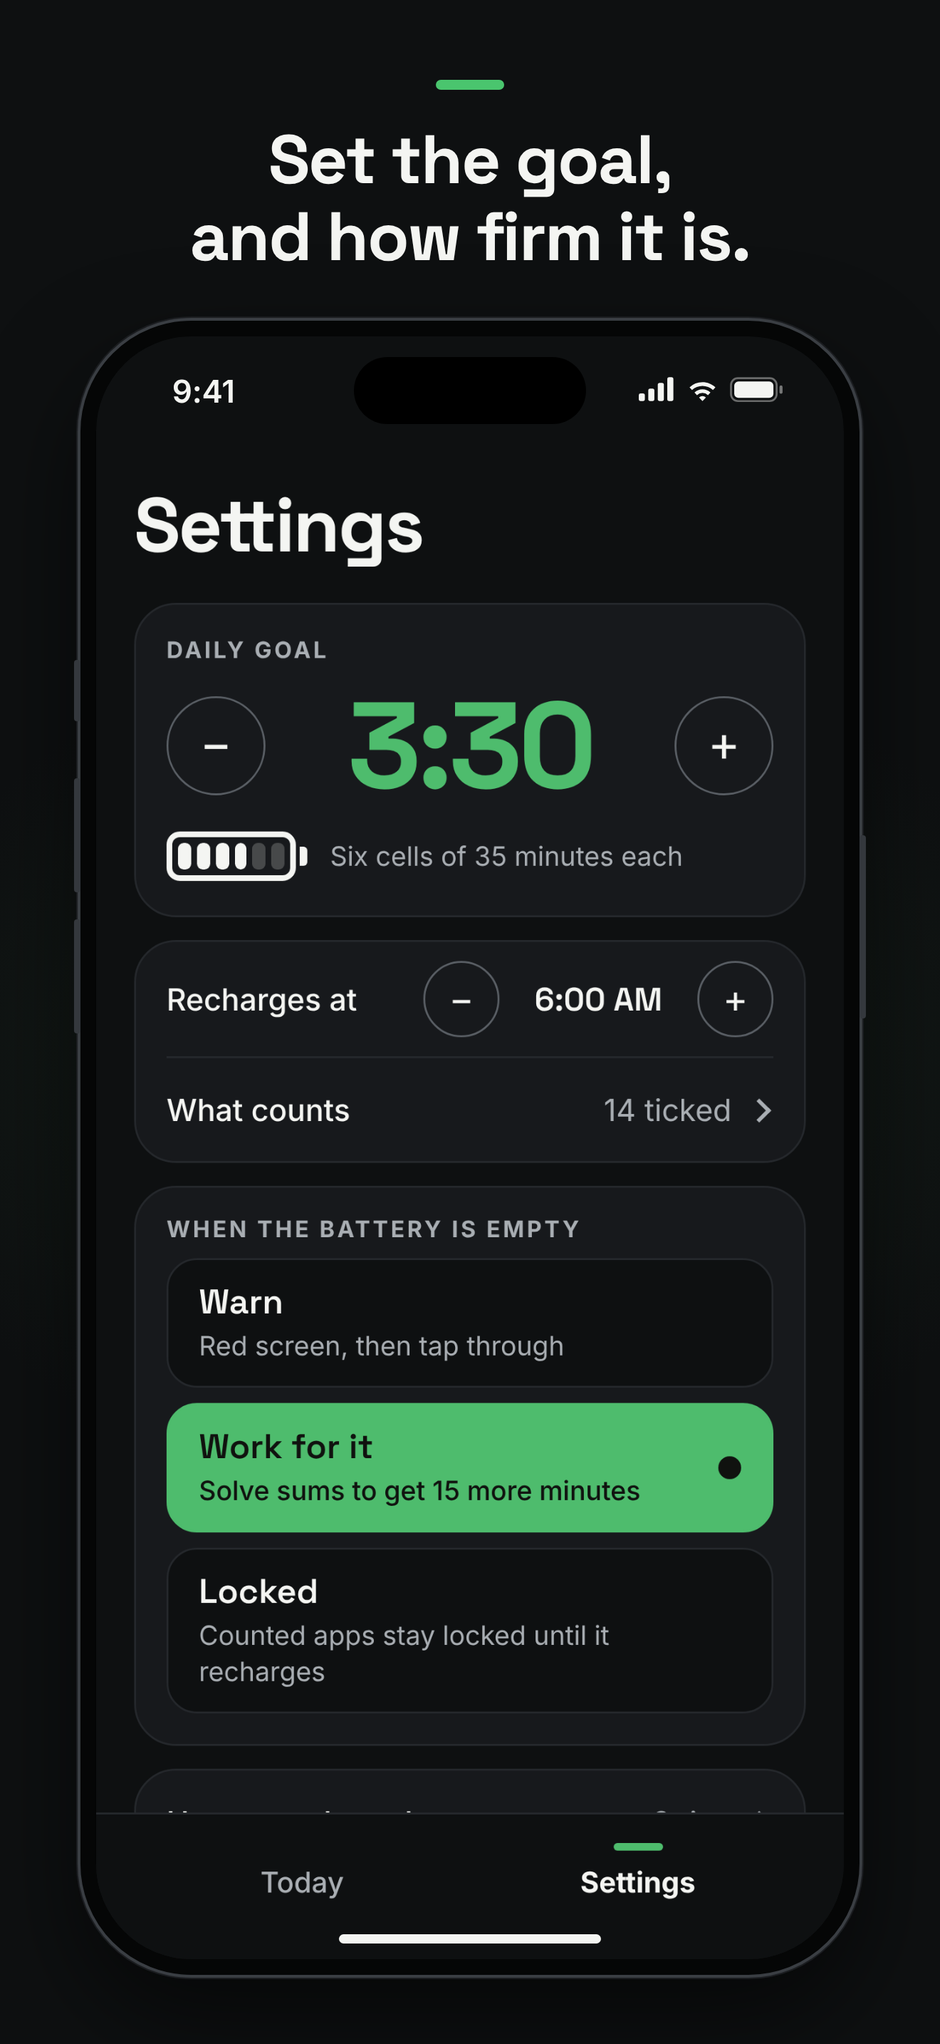
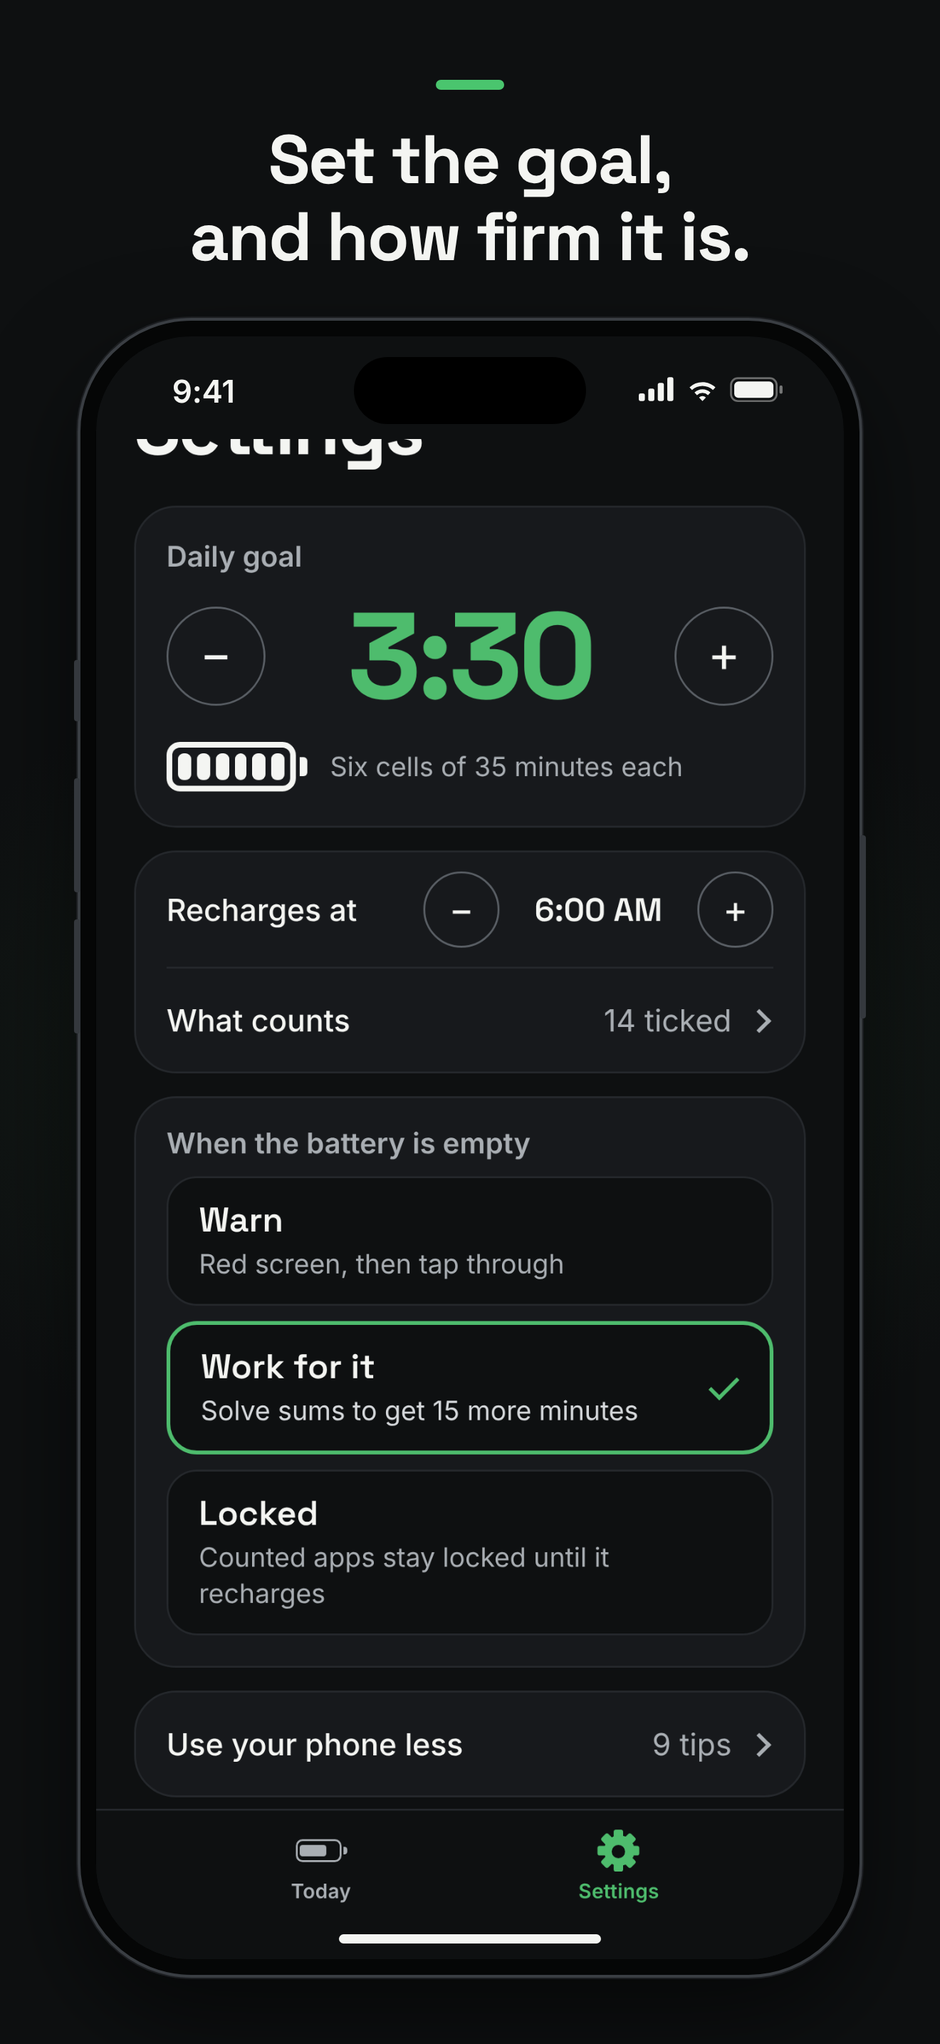
plainlimit 1.0.1 look: battery reads the right way, clearer colours
- A used cell is an outlined empty slot; only charge is solid (app and
  widget). The bar under "Used today" lights what is left.
- Two cells left is a clear yellow; Last 7 days is green (under the goal)
  or light red (ran out), with closeness shown by height.
- Settings: six-cell allowance battery, outlined choice with a checkmark,
  sentence-case labels. Quieter countdown, clearer sums note.
- The phone's "Used today" figure keeps to the top of its box, so a late
  layout can't draw it half below the edge (seen on the owner's phone).
- Store screenshots for 1.0.1: iPhone-style tab bar in the web build,
  empty shot leads on to the sums, nothing cut by the tab bar.
- queue.json: Plainlimit is in App Review (site label added).

Claude-Session: https://claude.ai/code/session_01P4SSbMQUsnKyhcfhzrtFQp

diff --git a/apps/plainlimit/src/ui/AppTabs.web.tsx b/apps/plainlimit/src/ui/AppTabs.web.tsx
@@ -4,13 +4,46 @@ import { Pressable, StyleSheet, Text, View, type PressableProps } from 'react-na
 import { c } from './theme';
 import { useDay } from './useDay';
 
-// The web preview's tab bar, drawn to sit where the iPhone's would.
+// The web preview's tab bar, drawn to match the iPhone's (AppTabs.tsx): an
+// icon over a small label for each tab, tinted in the battery's colour when
+// open. The icons stand in for the SF Symbols the phone draws (battery.75percent
+// and gearshape), which the web has no copy of.
 
-function TabButton({ label, accent, isFocused, ...props }: TabTriggerSlotProps & { label: string; accent: string }) {
+function BatteryIcon({ color }: { color: string }) {
+  return (
+    <View style={{ flexDirection: 'row', alignItems: 'center', gap: 1.5, height: 24 }}>
+      <View style={{ width: 24, height: 12, borderRadius: 3.5, borderWidth: 1.6, borderColor: color, padding: 1.6 }}>
+        <View style={{ width: '75%', height: '100%', borderRadius: 1.5, backgroundColor: color }} />
+      </View>
+      <View style={{ width: 2, height: 4.5, borderTopRightRadius: 1.5, borderBottomRightRadius: 1.5, backgroundColor: color }} />
+    </View>
+  );
+}
+
+function GearIcon({ color }: { color: string }) {
+  const size = 22;
+  return (
+    <View style={{ width: size, height: 24, alignItems: 'center', justifyContent: 'center' }}>
+      <View style={{ width: size, height: size }}>
+        {Array.from({ length: 8 }, (_, i) => (
+          <View key={i} style={{ position: 'absolute', left: size / 2 - 2.5, top: 0, width: 5, height: size, transform: [{ rotate: `${i * 45}deg` }] }}>
+            <View style={{ width: 5, height: 6, borderRadius: 1.2, backgroundColor: color }} />
+          </View>
+        ))}
+        <View style={{ position: 'absolute', left: 3, top: 3, width: size - 6, height: size - 6, borderRadius: size, backgroundColor: color, alignItems: 'center', justifyContent: 'center' }}>
+          <View style={{ width: 7, height: 7, borderRadius: 7, backgroundColor: c.ground }} />
+        </View>
+      </View>
+    </View>
+  );
+}
+
+function TabButton({ label, icon, accent, isFocused, ...props }: TabTriggerSlotProps & { label: string; icon: 'battery' | 'gear'; accent: string }) {
+  const color = isFocused ? accent : c.ink3;
   return (
     <Pressable {...(props as PressableProps)} accessibilityRole="tab" accessibilityState={{ selected: !!isFocused }} style={styles.button}>
-      <View style={{ width: 26, height: 4, borderRadius: 2, backgroundColor: isFocused ? accent : 'transparent' }} />
-      <Text style={{ fontSize: 15, fontWeight: isFocused ? '700' : '500', color: isFocused ? c.ink : c.ink3 }}>{label}</Text>
+      {icon === 'battery' ? <BatteryIcon color={color} /> : <GearIcon color={color} />}
+      <Text style={{ fontSize: 10.5, fontWeight: '600', letterSpacing: 0.1, color }}>{label}</Text>
     </Pressable>
   );
 }
@@ -25,10 +58,10 @@ export default function AppTabs() {
         {/* One flat style object: the router's slot can't merge an array of styles. */}
         <View style={StyleSheet.flatten(styles.bar)}>
           <TabTrigger name="index" href="/" asChild>
-            <TabButton label="Today" accent={accent} />
+            <TabButton label="Today" icon="battery" accent={accent} />
           </TabTrigger>
           <TabTrigger name="settings" href="/settings" asChild>
-            <TabButton label="Settings" accent={accent} />
+            <TabButton label="Settings" icon="gear" accent={accent} />
           </TabTrigger>
         </View>
       </TabList>
@@ -37,6 +70,6 @@ export default function AppTabs() {
 }
 
 const styles = StyleSheet.create({
-  bar: { flexDirection: 'row', borderTopWidth: 1, borderTopColor: c.rule, backgroundColor: c.ground, paddingTop: 6, paddingBottom: 22, paddingHorizontal: 20 },
-  button: { flex: 1, height: 48, alignItems: 'center', justifyContent: 'center', gap: 7 },
+  bar: { flexDirection: 'row', borderTopWidth: StyleSheet.hairlineWidth, borderTopColor: c.rule, backgroundColor: c.ground, paddingTop: 6, paddingBottom: 26, paddingHorizontal: 40 },
+  button: { flex: 1, height: 46, alignItems: 'center', justifyContent: 'center', gap: 3 },
 });

diff --git a/apps/plainlimit/src/ui/kit.tsx b/apps/plainlimit/src/ui/kit.tsx
@@ -148,18 +148,19 @@ export function Choice({
         tap();
         onPress();
       }}
-      style={({ pressed }) => [styles.choice, chosen ? { backgroundColor: accent, borderColor: accent } : null, disabled ? { opacity: 0.6 } : null, pressed ? { opacity: 0.8 } : null]}>
+      style={({ pressed }) => [styles.choice, chosen ? { borderColor: accent, borderWidth: 2 } : null, disabled ? { opacity: 0.6 } : null, pressed ? { opacity: 0.8 } : null]}>
       <View style={{ flex: 1, gap: 3 }}>
-        <Text style={{ fontFamily: display.semi, fontSize: 18, lineHeight: 22, color: chosen ? c.onTone : c.ink }}>{title}</Text>
-        {line ? <Text style={{ fontSize: 14, lineHeight: 19, fontWeight: chosen ? '500' : '400', color: chosen ? c.onTone : c.ink3 }}>{line}</Text> : null}
+        <Text style={{ fontFamily: display.semi, fontSize: 18, lineHeight: 22, color: c.ink }}>{title}</Text>
+        {line ? <Text style={{ fontSize: 14, lineHeight: 19, color: chosen ? c.ink2 : c.ink3 }}>{line}</Text> : null}
         {rows?.map(([label, says]) => (
           <View key={label} style={{ marginTop: 6 }}>
-            <Text style={{ fontSize: 12, fontWeight: '700', letterSpacing: 0.8, textTransform: 'uppercase', color: chosen ? c.onTone : c.ink3, opacity: chosen ? 0.75 : 1 }}>{label}</Text>
-            <Text style={{ fontSize: 15, lineHeight: 20, fontWeight: chosen ? '500' : '400', color: chosen ? c.onTone : c.ink2 }}>{says}</Text>
+            <Text style={{ fontSize: 13, fontWeight: '600', color: c.ink3 }}>{label}</Text>
+            <Text style={{ fontSize: 15, lineHeight: 20, color: c.ink2 }}>{says}</Text>
           </View>
         ))}
       </View>
-      {chosen ? <View style={styles.dot} /> : null}
+      {/* The chosen row: an outline in the day's colour and a checkmark, like a settings list. */}
+      {chosen ? <View style={[styles.check, { borderColor: accent }]} /> : null}
       {tag ? (
         <View style={styles.tag}>
           <Text style={styles.tagText}>{tag}</Text>
@@ -172,7 +173,7 @@ export function Choice({
 const styles = StyleSheet.create({
   title: { fontFamily: display.bold, fontSize: 40, lineHeight: 44, letterSpacing: -1, color: c.ink, marginBottom: 6 },
   lead: { fontSize: 16, lineHeight: 22, color: c.ink2, marginBottom: 6 },
-  label: { fontSize: 12, fontWeight: '700', letterSpacing: 1.4, textTransform: 'uppercase', color: c.ink3 },
+  label: { fontSize: 15, fontWeight: '600', color: c.ink3 },
   card: { borderRadius: 22, backgroundColor: c.card, borderWidth: 1, borderColor: c.rule, paddingHorizontal: 16 },
   big: { minHeight: 58, borderRadius: 29, backgroundColor: c.paper, alignItems: 'center', justifyContent: 'center', paddingHorizontal: 18 },
   bigQuiet: { backgroundColor: 'transparent', borderWidth: 1.5, borderColor: c.outline },
@@ -182,7 +183,7 @@ const styles = StyleSheet.create({
   rowLabel: { fontSize: 16, fontWeight: '500', color: c.ink },
   rowValue: { fontSize: 16, color: c.ink3, flexShrink: 1 },
   choice: { minHeight: 62, borderRadius: 16, borderWidth: 1.5, borderColor: c.rule, backgroundColor: c.ground, paddingVertical: 11, paddingHorizontal: 16, flexDirection: 'row', alignItems: 'center', gap: 12 },
-  dot: { width: 12, height: 12, borderRadius: 6, backgroundColor: c.onTone },
+  check: { width: 8, height: 15, borderRightWidth: 2.5, borderBottomWidth: 2.5, transform: [{ rotate: '45deg' }], marginRight: 4, marginTop: -4 },
   tag: { borderWidth: 1, borderColor: c.ink3, borderRadius: 8, paddingVertical: 3, paddingHorizontal: 8 },
   tagText: { fontSize: 12, fontWeight: '600', color: c.ink2 },
 });

diff --git a/apps/plainlimit/src/ui/Ruler.tsx b/apps/plainlimit/src/ui/Ruler.tsx
@@ -4,21 +4,22 @@ import { CELLS } from '@/domain/battery';
 
 import { c } from './theme';
 
-// The day laid out flat: six stretches, one under each cell of the battery,
-// lit as that cell is used up. The battery empties from the right, so this
-// fills from the right too and the two move the same way; a lit stretch sits
-// under the cell that went. (It used to fill from the left, against the
-// battery, which the owner found contradictory.)
+// The day laid out flat: six stretches, one under each cell of the battery.
+// Like the battery, what is lit is what is left: the charge drains from the
+// right, so a stretch goes dark under the cell that went, and the two move
+// the same way. (It once filled from the left, against the battery, which the
+// owner found contradictory; then it lit what was used, which read as "one
+// cell left" next to a battery whose used cells are empty slots.)
 
 export function Ruler({ fraction, color }: { fraction: number; color: string }) {
-  const used = Math.max(0, Math.min(1, fraction)) * CELLS;
+  const left = (1 - Math.max(0, Math.min(1, fraction))) * CELLS;
   return (
-    <View accessible accessibilityRole="progressbar" accessibilityLabel={`${Math.round(Math.min(1, Math.max(0, fraction)) * 100)} percent of the goal used`} style={{ flexDirection: 'row-reverse', gap: 4 }}>
+    <View accessible accessibilityRole="progressbar" accessibilityLabel={`${Math.round(Math.min(1, Math.max(0, fraction)) * 100)} percent of the goal used`} style={{ flexDirection: 'row', gap: 4 }}>
       {Array.from({ length: CELLS }, (_, i) => {
-        const part = Math.max(0, Math.min(1, used - i));
+        const part = Math.max(0, Math.min(1, left - i));
         return (
           <View key={i} style={{ flex: 1, height: 8, borderRadius: 4, backgroundColor: c.raised, overflow: 'hidden' }}>
-            <View style={{ width: `${part * 100}%`, height: 8, borderRadius: 4, backgroundColor: color, alignSelf: 'flex-end' }} />
+            <View style={{ width: `${part * 100}%`, height: 8, borderRadius: 4, backgroundColor: color }} />
           </View>
         );
       })}

diff --git a/apps/plainlimit/src/ui/Battery.tsx b/apps/plainlimit/src/ui/Battery.tsx
@@ -11,7 +11,7 @@ import { usePulse, useReducedMotion } from './motion';
 //
 // It is drawn flat, like a sticker: a hard shadow under the casing, and a
 // short glint on each lit cell. A cell fades and shrinks away when it is
-// used up, and the last one left breathes slowly.
+// used up, leaving an outlined empty slot, and the last one left breathes slowly.
 
 export function Battery({
   cells,
@@ -46,6 +46,7 @@ export function Battery({
   const inset = Math.max(3, Math.round(height * 0.085));
   const radius = Math.round(height * 0.27);
   const cellRadius = Math.max(2, Math.round(height * 0.12));
+  const slotLine = Math.max(1.5, Math.round(height * 0.035 * 2) / 2);
   const drop = flat ? 0 : Math.max(3, Math.round(height * 0.085));
   const capWidth = Math.max(4, Math.round(height * 0.11));
   const capGap = Math.max(2, Math.round(height * 0.06));
@@ -64,7 +65,10 @@ export function Battery({
         {drop > 0 ? <View style={{ position: 'absolute', left: 0, right: 0, top: drop, height, borderRadius: radius, backgroundColor: tone.track }} /> : null}
         <Animated.View style={{ height, borderWidth: border, borderColor: tone.fg, borderRadius: radius, backgroundColor: fill ?? tone.bg, padding: inset, flexDirection: 'row', gap: inset }}>
           {levels.map((level, i) => (
-            <View key={i} style={{ flex: 1, borderRadius: cellRadius, backgroundColor: tone.track, overflow: 'hidden' }}>
+            // A used cell is an empty slot (the ground shows through, outlined), like
+            // the phone's own battery icon: only charge is solid.
+            <View key={i} style={{ flex: 1 }}>
+              <View style={{ position: 'absolute', top: 0, left: 0, right: 0, bottom: 0, borderRadius: cellRadius, borderWidth: slotLine, borderColor: tone.track }} />
               <Animated.View
                 style={{
                   flex: 1,

diff --git a/apps/plainlimit/src/ui/WeekView.tsx b/apps/plainlimit/src/ui/WeekView.tsx
@@ -1,15 +1,15 @@
 import { StyleSheet, Text, View } from 'react-native';
 
-import { cellsLeft } from '@/domain/battery';
+import { CELLS } from '@/domain/battery';
 import { durationLabel } from '@/domain/day';
-import { toneForCells } from '@/domain/tone';
+import { accentOnDark, toneForCells } from '@/domain/tone';
 import { earnedLine, weekLine, type Week, type WeekColumn } from '@/domain/week';
 
 import { Label } from './kit';
 import { c } from './theme';
 
-// The last seven batteries side by side, each filled as far as it was used, in
-// the colour the battery had reached. A full bar is a day that ran out.
+// The last seven batteries side by side, each filled as far as it was used:
+// green if the day stayed under the goal, red if it ran out (a full bar).
 
 const FULL_NAMES: Record<string, string> = { Sun: 'Sunday', Mon: 'Monday', Tue: 'Tuesday', Wed: 'Wednesday', Thu: 'Thursday', Fri: 'Friday', Sat: 'Saturday' };
 
@@ -25,7 +25,10 @@ function spoken(col: WeekColumn): string {
 function Column({ col }: { col: WeekColumn }) {
   const shown = col.state !== 'unknown' && col.state !== 'off';
   const fill = Math.max(0, Math.min(1, col.usedMinutes / col.goalMinutes));
-  const colour = toneForCells(cellsLeft(col.usedMinutes, col.goalMinutes)).bg;
+  // Two states only: under the goal in the full battery's green, ran out in a
+  // red light enough to read on the dark ground. How close a day came is the
+  // bar's height; colouring that too painted good days in warning colours.
+  const colour = col.usedMinutes >= col.goalMinutes ? accentOnDark(toneForCells(0)) : toneForCells(CELLS).bg;
   return (
     <View accessible accessibilityLabel={spoken(col)} style={styles.column}>
       <View style={styles.track}>

diff --git a/apps/plainlimit/targets/widget/PlainlimitWidget.swift b/apps/plainlimit/targets/widget/PlainlimitWidget.swift
@@ -43,7 +43,7 @@ extension Color {
 }
 
 // TONES-BEGIN (generated from src/domain/tone.ts; index = cells left)
-let toneBackgrounds: [UInt32] = [0xA50008, 0xF79200, 0x9CC349, 0x50B76C, 0x4DBE6D, 0x4AC56E, 0x46CC70]
+let toneBackgrounds: [UInt32] = [0xA50008, 0xF79200, 0xE5CC1C, 0x50B76C, 0x4DBE6D, 0x4AC56E, 0x46CC70]
 // TONES-END
 
 func tone(forCells cells: Int) -> Tone {
@@ -53,7 +53,7 @@ func tone(forCells cells: Int) -> Tone {
       background: Color(hex: toneBackgrounds[0]), ink: .white, track: Color.white.opacity(0.30))
   }
   let ink = Color(hex: 0x10120F)
-  return Tone(background: Color(hex: toneBackgrounds[index]), ink: ink, track: ink.opacity(0.22))
+  return Tone(background: Color(hex: toneBackgrounds[index]), ink: ink, track: ink.opacity(0.32))
 }
 
 func word(forCells cells: Int) -> String {
@@ -213,9 +213,15 @@ struct BatteryShape: View {
       let nub = height * 0.11
       HStack(spacing: height * 0.05) {
         HStack(spacing: height * 0.07) {
+          // A used cell is an outlined empty slot; only charge is solid (Battery.tsx).
           ForEach(0..<cellCount, id: \.self) { index in
-            RoundedRectangle(cornerRadius: height * 0.09, style: .continuous)
-              .fill(index < cells ? ink : track)
+            if index < cells {
+              RoundedRectangle(cornerRadius: height * 0.09, style: .continuous)
+                .fill(ink)
+            } else {
+              RoundedRectangle(cornerRadius: height * 0.09, style: .continuous)
+                .strokeBorder(track, lineWidth: max(1, height * 0.035))
+            }
           }
         }
         .padding(height * 0.15)

diff --git a/apps/plainlimit/src/app/(tabs)/settings.tsx b/apps/plainlimit/src/app/(tabs)/settings.tsx
@@ -1,7 +1,7 @@
 import { useRouter } from 'expo-router';
 import { StyleSheet, Text, View, useWindowDimensions } from 'react-native';
 
-import { cellWords } from '@/domain/battery';
+import { CELLS, cellWords } from '@/domain/battery';
 import { clockLabel, durationLabel } from '@/domain/day';
 import { topUpPlan } from '@/domain/puzzle';
 import { COUNTED_ID, DEV_TOOLS, MOCK_PHONE, SCREEN_TIME_AVAILABLE, isOn, pickCount } from '@/platform/screenTime';
@@ -15,7 +15,7 @@ import { useDay } from '@/ui/useDay';
 
 export default function Settings() {
   const router = useRouter();
-  const { settings, day, cells, accent } = useDay();
+  const { settings, day, accent } = useDay();
   const first = topUpPlan(0);
   const picked = SCREEN_TIME_AVAILABLE || MOCK_PHONE ? pickCount(COUNTED_ID) : -1;
   const countedValue = picked < 0 ? 'Your picks' : picked === 0 ? 'Nothing yet' : `${picked} ticked`;
@@ -43,7 +43,7 @@ export default function Settings() {
         </View>
         <View style={styles.cellRow}>
           <View style={{ width: 74 }}>
-            <Battery cells={cells} tone={{ fg: c.ink, track: 'rgba(244,245,242,0.22)', bg: c.card }} height={26} flat decorative />
+            <Battery cells={CELLS} tone={{ fg: c.ink, track: 'rgba(244,245,242,0.22)', bg: c.card }} height={26} flat decorative />
           </View>
           <Text style={styles.cellNote}>Six cells of {cellWords(settings.goalMinutes)} each</Text>
         </View>

diff --git a/apps/plainlimit/src/domain/tone.ts b/apps/plainlimit/src/domain/tone.ts
@@ -37,7 +37,7 @@ export function oklchToHex(lightness: number, chroma: number, hueDegrees: number
 
 /**
  * The colour for a point in the day, where `t` is the share of the goal used.
- * Green dulls slowly for the first two thirds, turns yellow by five sixths,
+ * Green dulls slowly for the first two thirds, turns yellow by three quarters,
  * orange through the last cell, and deep red from the moment it is empty.
  */
 export function toneAt(t: number): Tone {
@@ -52,7 +52,9 @@ export function toneAt(t: number): Tone {
     light = 76 - 7 * k;
     chroma = 0.18 - 0.04 * k;
   } else if (x <= 0.833) {
-    const k = (x - 0.667) / 0.166;
+    // Green turns to a clear yellow by the middle of the fifth cell, so two
+    // cells left never sits as a lime beside the full battery's green.
+    const k = Math.min(1, ((x - 0.667) / 0.166) * 2);
     hue = 150 - 50 * k;
     light = 69 + 15 * k;
     chroma = 0.14 + 0.03 * k;
@@ -67,7 +69,7 @@ export function toneAt(t: number): Tone {
     light = 72 - 9 * k;
     chroma = 0.18 + 0.02 * k;
   }
-  return { bg: oklchToHex(light / 100, chroma, hue), fg: INK, track: 'rgba(16,18,15,0.22)', dark: false };
+  return { bg: oklchToHex(light / 100, chroma, hue), fg: INK, track: 'rgba(16,18,15,0.32)', dark: false };
 }
 
 /** The colour shown for a number of lit cells: the middle of that cell's stretch of the day. */

diff --git a/apps/plainlimit/targets/report/PlainlimitReport.swift b/apps/plainlimit/targets/report/PlainlimitReport.swift
@@ -205,6 +205,11 @@ struct AverageReport: DeviceActivityReportScene {
 struct TotalView: View {
   let seconds: TimeInterval
 
+  // The figure keeps to the top 52 points, the height of the app's box for it,
+  // whatever size iOS first gives this view. Centred in the whole view, it was
+  // drawn half below the box when iOS laid the view out taller than the box
+  // before the box had its size (the owner's phone, build 75: "2:06" with its
+  // top half cut off, right a moment later).
   var body: some View {
     HStack(spacing: 0) {
       Text(clockWords(seconds))
@@ -216,7 +221,8 @@ struct TotalView: View {
         .minimumScaleFactor(0.6)
       Spacer(minLength: 0)
     }
-    .frame(maxWidth: .infinity, maxHeight: .infinity, alignment: .leading)
+    .frame(height: 52, alignment: .leading)
+    .frame(maxWidth: .infinity, maxHeight: .infinity, alignment: .topLeading)
     .background(ground)
   }
 }

diff --git a/apps/plainlimit/src/app/(tabs)/index.tsx b/apps/plainlimit/src/app/(tabs)/index.tsx
@@ -134,7 +134,7 @@ const styles = StyleSheet.create({
   word: { fontFamily: display.bold, fontSize: 58, lineHeight: 58, letterSpacing: -2.2 },
   rechargeRow: { flexDirection: 'row', flexWrap: 'wrap', alignItems: 'baseline', columnGap: 10, rowGap: 2 },
   recharge: { fontSize: 17, fontWeight: '700' },
-  until: { fontSize: 17, fontWeight: '500' },
+  until: { fontSize: 17, fontWeight: '500', opacity: 0.72 },
   rest: { paddingHorizontal: 24, paddingTop: 28, gap: 26 },
   strip: { borderLeftWidth: 0, borderWidth: 1.5, borderRadius: 18, paddingVertical: 14, paddingHorizontal: 16 },
   used: { fontFamily: display.bold, fontSize: 48, lineHeight: 50, letterSpacing: -1.6, color: c.ink },

diff --git a/apps/plainlimit/modules/plainlimit-widgets/ios/PlainlimitWidgetsModule.swift b/apps/plainlimit/modules/plainlimit-widgets/ios/PlainlimitWidgetsModule.swift
@@ -76,9 +76,18 @@ class UsageReportView: ExpoView {
     return nil
   }
 
+  private var laidOutSize = CGSize.zero
+
   override func layoutSubviews() {
     super.layoutSubviews()
     host?.view.frame = bounds
+    // When the box gets its real size after the report was first drawn, ask
+    // the report to lay itself out again, so it does not keep the first size.
+    if bounds.size != laidOutSize {
+      laidOutSize = bounds.size
+      host?.view.setNeedsLayout()
+      host?.view.layoutIfNeeded()
+    }
     sheet.frame = bounds
     bringSubviewToFront(sheet)
   }

diff --git a/apps/plainlimit/src/app/puzzle.tsx b/apps/plainlimit/src/app/puzzle.tsx
@@ -90,7 +90,7 @@ export default function Puzzle() {
           <Text accessibilityRole="header" style={styles.title}>
             Earn {plan.minutes} minutes
           </Text>
-          <Text style={styles.lead}>{plan.sums} sums, no skipping. Your battery is still empty after this.</Text>
+          <Text style={styles.lead}>{plan.sums} sums, no skipping. The time is added; the battery stays empty.</Text>
         </View>
 
         <View style={{ flexDirection: 'row', alignItems: 'center', gap: 10 }}>
